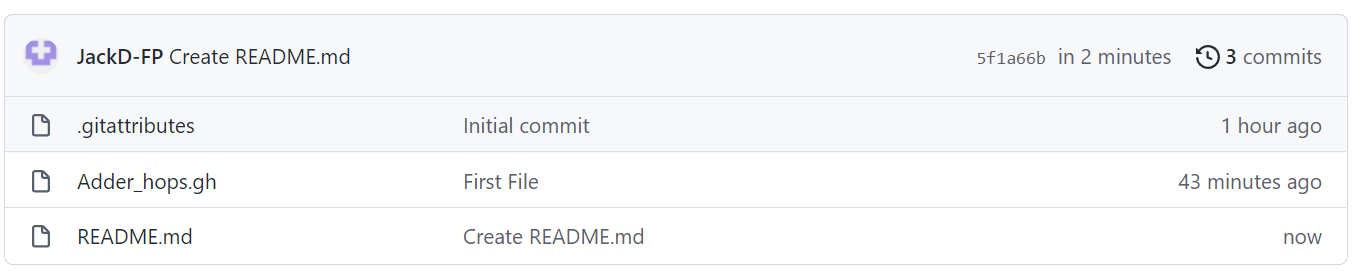
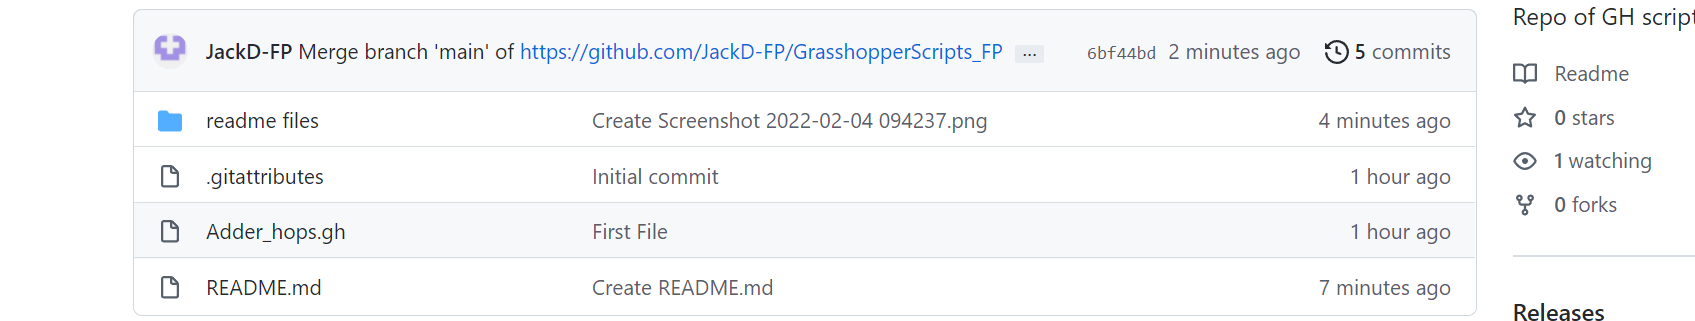
edits

diff --git a/README.md b/README.md
@@ -10,4 +10,6 @@ In Rhino command Line type `PackageManager`. Then Search for "Hops" and click in
 
 Using Repo file
 ---------------
-Look for File you want. 
+Look for File you want and click the link.
+
+![Link](https://github.com/JackD-FP/GrasshopperScripts_FP/blob/main/readme%20files/Screenshot%202022-02-04%20094237.png?raw=true)
